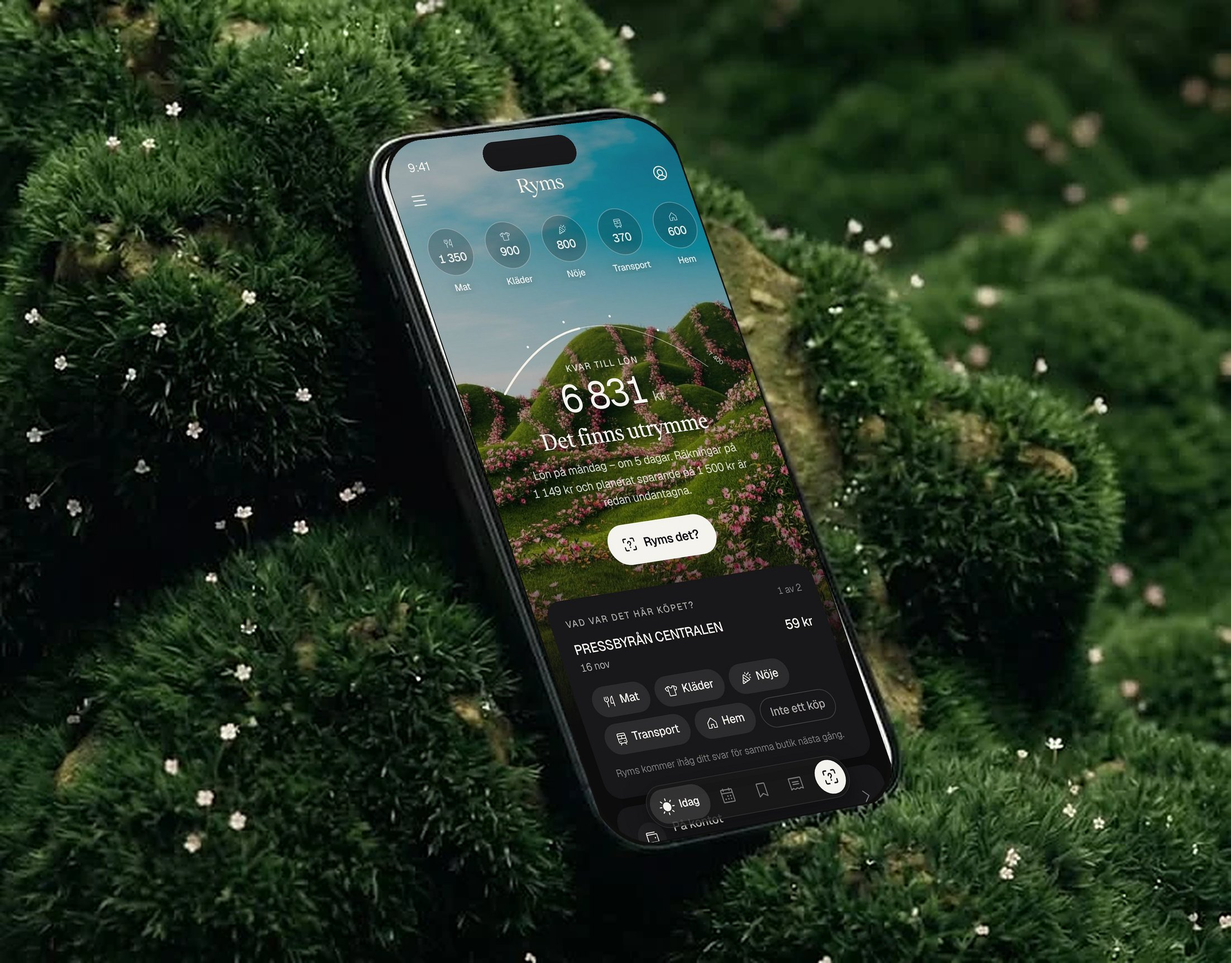
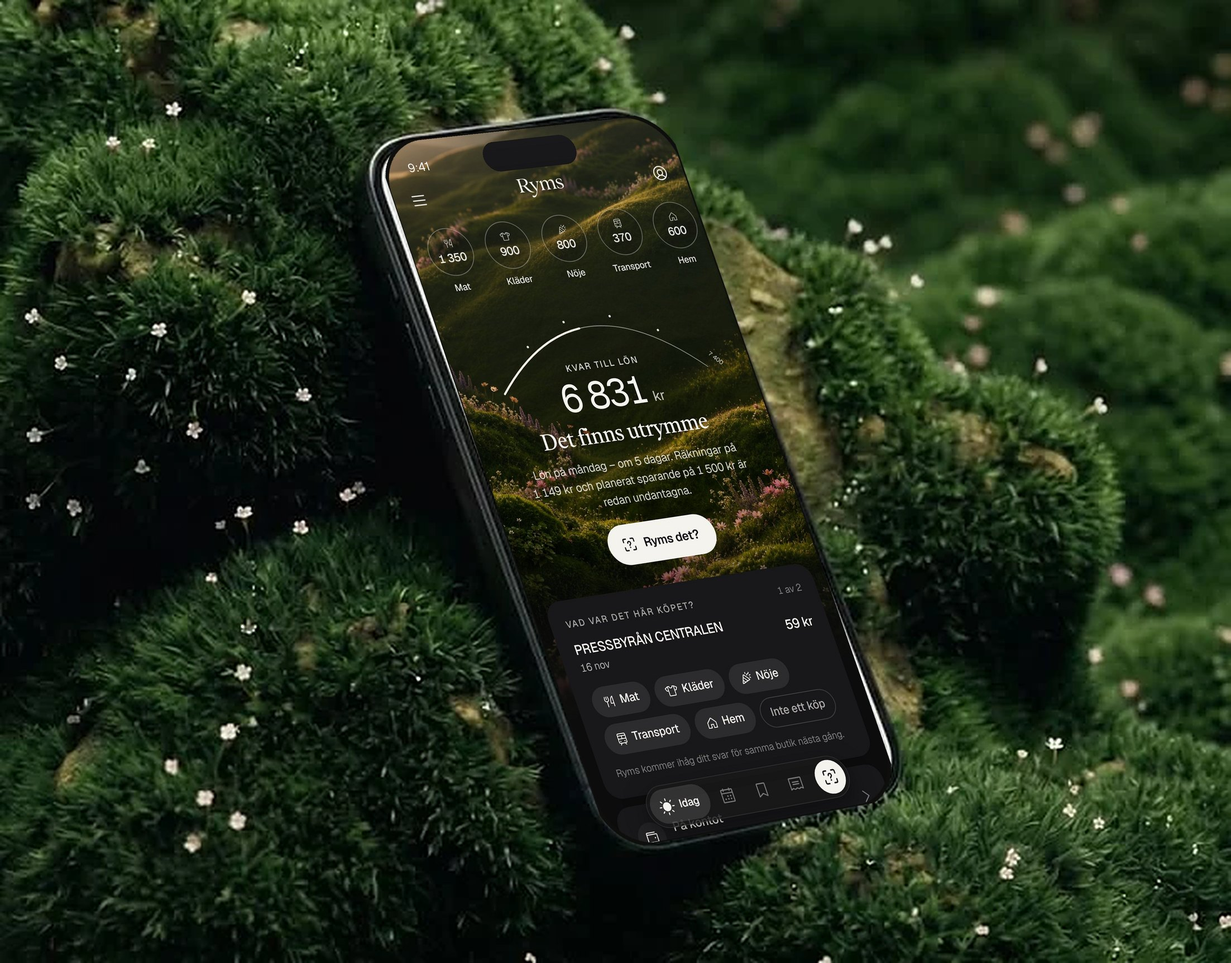
Mörka kullar i kvällsljus som bakgrund i appen
Claude-Session: https://claude.ai/code/session_01GAD7svFHpQ8hFb5MfyqAze

Changed region(s): [[0.3084, 0.1229, 0.6785, 0.6759]]

diff --git a/src/app/globals.css b/src/app/globals.css
@@ -2298,3 +2298,19 @@ body:not(:has(.shell.home)):not(:has([data-testid="result"])) .backdrop::after {
   background: rgba(0, 0, 0, 0.2);
   box-shadow: inset 0 0 0 1px rgba(255, 255, 255, 0.32);
 }
+
+/* ═════════ Mörka kullar i kvällsljus. Bilden är redan mörk, så slöjan är mycket tunn. ═════════ */
+.backdrop img.photo,
+.backdrop img.wave {
+  object-position: 50% 30%;
+}
+.backdrop img.wave {
+  -webkit-mask-image: linear-gradient(180deg, transparent 0%, transparent 8%, #000 20%);
+  mask-image: linear-gradient(180deg, transparent 0%, transparent 8%, #000 20%);
+}
+.backdrop::after {
+  background: linear-gradient(180deg, rgba(0, 0, 0, 0.18) 0%, rgba(0, 0, 0, 0.14) 70%, rgba(12, 12, 13, 0.8) 88%, var(--bg) 100%);
+}
+body:not(:has(.shell.home)):not(:has([data-testid="result"])) .backdrop::after {
+  background: linear-gradient(180deg, rgba(0, 0, 0, 0.2) 0%, rgba(0, 0, 0, 0.3) 45%, rgba(12, 12, 13, 0.9) 80%, var(--bg) 100%);
+}
